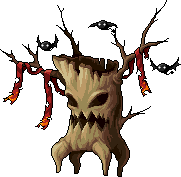
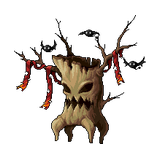
BOSS計時器v4

diff --git a/app/boss-timer/page.tsx b/app/boss-timer/page.tsx
@@ -75,15 +75,15 @@ const BOSS_IMAGES:Record<string,string>={
 
 function BossImage({boss,size=92}:{boss:BossDefinition;size?:number}){
   const src=BOSS_IMAGES[boss.boss_key];
-  if(!src)return <div style={{fontSize:30}}>{boss.icon}</div>;
-  return <div style={{height:size,display:"grid",placeItems:"center"}}>
+  if(!src)return <div style={{width:size,height:size,display:"grid",placeItems:"center",margin:"0 auto",fontSize:30}}>{boss.icon}</div>;
+  return <div style={{width:size,height:size,display:"grid",placeItems:"center",margin:"0 auto",flex:"0 0 auto"}}>
     <Image
       src={src}
       alt={boss.boss_name}
       width={size}
       height={size}
       sizes={`${size}px`}
-      style={{width:"100%",height:"100%",objectFit:"contain"}}
+      style={{width:size,height:size,objectFit:"contain",display:"block"}}
     />
   </div>;
 }

diff --git a/CHANGELOG_V3.4.md b/CHANGELOG_V3.4.md
@@ -1,0 +1,7 @@
+# v3.4 王圖片尺寸統一
+
+- 8 張 BOSS 官方圖片全部標準化為 160×160 透明畫布。
+- 王本體統一縮放到最大約 132×132 範圍並置中，保留原始比例、不拉伸變形。
+- `BossImage` 顯示容器改為固定寬高，選王卡預設 96×96。
+- 目前計時與官方統計使用同一套固定方形圖片元件。
+- 不需要修改 Supabase；若已執行 v22，可直接替換前端檔案與 `public/bosses/`。
